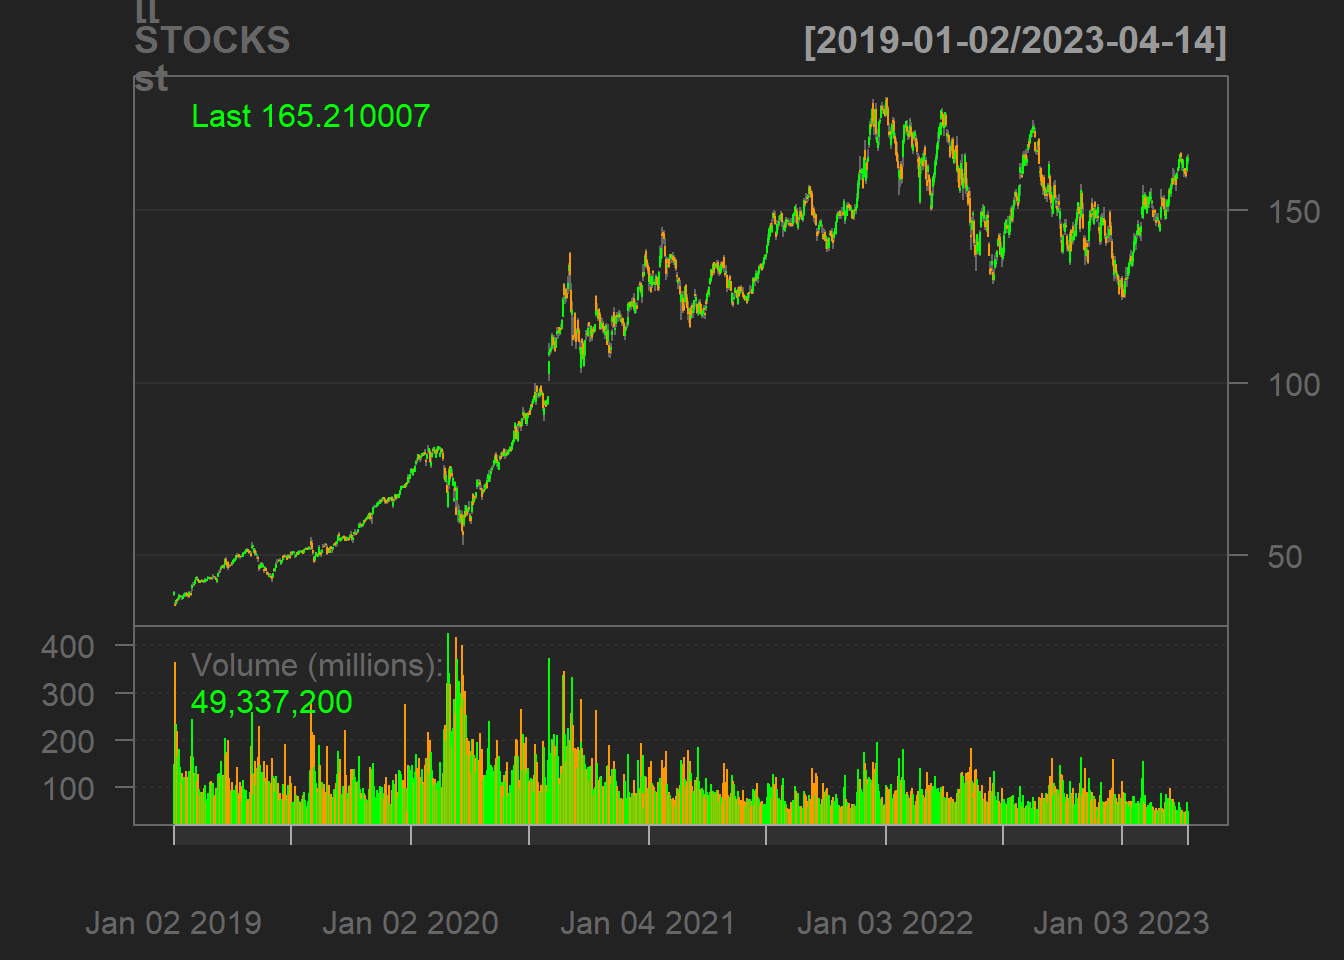
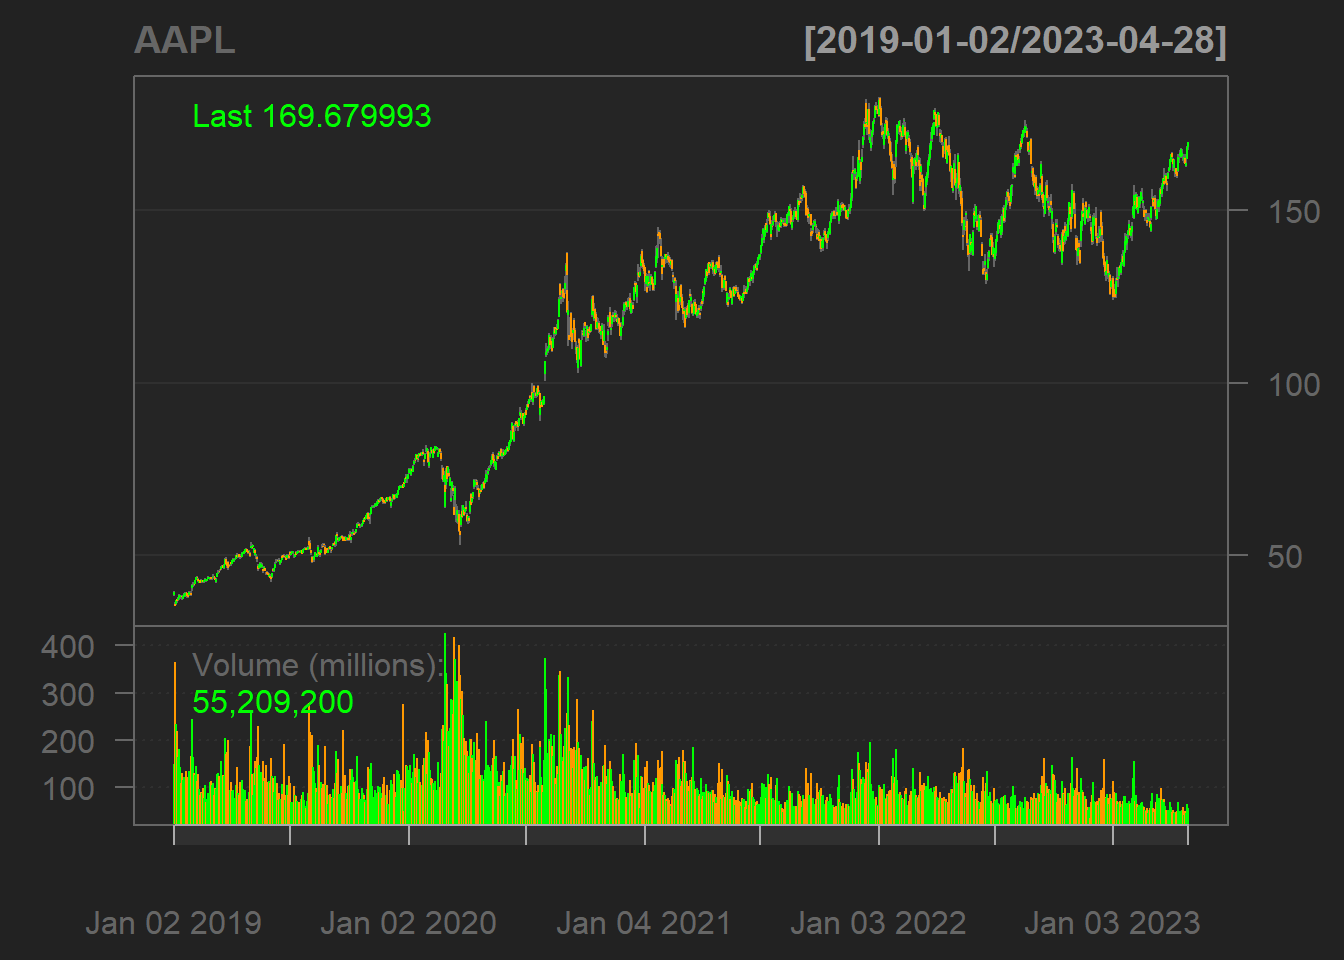
loops

diff --git a/docs/results.html b/docs/results.html
@@ -189,38 +189,30 @@ code span.wa { color: #60a0b0; font-weight: bold; font-style: italic; } /* Warni
 
 <div class="cell">
 <div class="sourceCode cell-code" id="cb1"><pre class="sourceCode r code-with-copy"><code class="sourceCode r"><span id="cb1-1"><a href="#cb1-1" aria-hidden="true" tabindex="-1"></a><span class="fu">library</span>(quantmod)</span>
-<span id="cb1-2"><a href="#cb1-2" aria-hidden="true" tabindex="-1"></a><span class="fu">load</span>(<span class="st">"./data/description.rdata"</span>)</span></code><button title="Copy to Clipboard" class="code-copy-button"><i class="bi"></i></button></pre></div>
+<span id="cb1-2"><a href="#cb1-2" aria-hidden="true" tabindex="-1"></a><span class="fu">library</span>(ggplot2)</span>
+<span id="cb1-3"><a href="#cb1-3" aria-hidden="true" tabindex="-1"></a><span class="fu">load</span>(<span class="st">"./data/description.rdata"</span>)</span></code><button title="Copy to Clipboard" class="code-copy-button"><i class="bi"></i></button></pre></div>
 </div>
 <div class="cell">
-<div class="sourceCode cell-code" id="cb2"><pre class="sourceCode r code-with-copy"><code class="sourceCode r"><span id="cb2-1"><a href="#cb2-1" aria-hidden="true" tabindex="-1"></a>AAPL <span class="ot">=</span> <span class="fu">as.data.frame</span>(AAPL)</span>
-<span id="cb2-2"><a href="#cb2-2" aria-hidden="true" tabindex="-1"></a>AAPL<span class="sc">$</span>Avg <span class="ot">=</span> (AAPL<span class="sc">$</span>AAPL.Open <span class="sc">+</span> AAPL<span class="sc">$</span>AAPL.Close)<span class="sc">/</span><span class="dv">2</span> </span>
-<span id="cb2-3"><a href="#cb2-3" aria-hidden="true" tabindex="-1"></a><span class="fu">with</span>(AAPL,(Avg[<span class="fu">length</span>(Avg)] <span class="sc">-</span> Avg[<span class="dv">1</span>])<span class="sc">*</span><span class="dv">100</span><span class="sc">/</span>Avg[<span class="dv">1</span>])</span></code><button title="Copy to Clipboard" class="code-copy-button"><i class="bi"></i></button></pre></div>
-<div class="cell-output cell-output-stdout">
-<pre><code>#&gt; [1] 321.7257</code></pre>
-</div>
-</div>
-<div class="cell">
-<div class="sourceCode cell-code" id="cb4"><pre class="sourceCode r code-with-copy"><code class="sourceCode r"><span id="cb4-1"><a href="#cb4-1" aria-hidden="true" tabindex="-1"></a>NOK <span class="ot">=</span> <span class="fu">as.data.frame</span>(NOK)</span>
-<span id="cb4-2"><a href="#cb4-2" aria-hidden="true" tabindex="-1"></a>NOK<span class="sc">$</span>Avg <span class="ot">=</span> (NOK<span class="sc">$</span>NOK.Open <span class="sc">+</span> NOK<span class="sc">$</span>NOK.Close)<span class="sc">/</span><span class="dv">2</span> </span>
-<span id="cb4-3"><a href="#cb4-3" aria-hidden="true" tabindex="-1"></a><span class="fu">with</span>(NOK,(Avg[<span class="fu">length</span>(Avg)] <span class="sc">-</span> Avg[<span class="dv">1</span>])<span class="sc">*</span><span class="dv">100</span><span class="sc">/</span>Avg[<span class="dv">1</span>])</span></code><button title="Copy to Clipboard" class="code-copy-button"><i class="bi"></i></button></pre></div>
-<div class="cell-output cell-output-stdout">
-<pre><code>#&gt; [1] -13.8986</code></pre>
-</div>
+<div class="sourceCode cell-code" id="cb2"><pre class="sourceCode r code-with-copy"><code class="sourceCode r"><span id="cb2-1"><a href="#cb2-1" aria-hidden="true" tabindex="-1"></a>PercentChange <span class="ot">&lt;-</span> <span class="fu">numeric</span>()</span>
+<span id="cb2-2"><a href="#cb2-2" aria-hidden="true" tabindex="-1"></a><span class="cf">for</span> (st <span class="cf">in</span> <span class="dv">1</span><span class="sc">:</span><span class="fu">length</span>(STOCKS)) { <span class="co"># st = 1</span></span>
+<span id="cb2-3"><a href="#cb2-3" aria-hidden="true" tabindex="-1"></a>    STOCKS[[st]]<span class="sc">$</span>Avg <span class="ot">=</span> (STOCKS[[st]][, <span class="dv">1</span>] <span class="sc">+</span> STOCKS[[st]][, <span class="dv">4</span>])<span class="sc">/</span><span class="dv">2</span></span>
+<span id="cb2-4"><a href="#cb2-4" aria-hidden="true" tabindex="-1"></a>    PercentChange[st] <span class="ot">&lt;-</span> <span class="fu">with</span>(<span class="fu">as.data.frame</span>(STOCKS[[st]]),</span>
+<span id="cb2-5"><a href="#cb2-5" aria-hidden="true" tabindex="-1"></a>                              (Avg[<span class="fu">length</span>(Avg)] <span class="sc">-</span> Avg[<span class="dv">1</span>])<span class="sc">*</span><span class="dv">100</span><span class="sc">/</span>Avg[<span class="dv">1</span>])</span>
+<span id="cb2-6"><a href="#cb2-6" aria-hidden="true" tabindex="-1"></a>}</span>
+<span id="cb2-7"><a href="#cb2-7" aria-hidden="true" tabindex="-1"></a><span class="fu">names</span>(PercentChange) <span class="ot">&lt;-</span> tickers</span></code><button title="Copy to Clipboard" class="code-copy-button"><i class="bi"></i></button></pre></div>
 </div>
 <div class="cell">
-<div class="sourceCode cell-code" id="cb6"><pre class="sourceCode r code-with-copy"><code class="sourceCode r"><span id="cb6-1"><a href="#cb6-1" aria-hidden="true" tabindex="-1"></a>IVV <span class="ot">=</span> <span class="fu">as.data.frame</span>(IVV)</span>
-<span id="cb6-2"><a href="#cb6-2" aria-hidden="true" tabindex="-1"></a>IVV<span class="sc">$</span>Avg <span class="ot">=</span> (IVV<span class="sc">$</span>IVV.Open <span class="sc">+</span> IVV<span class="sc">$</span>IVV.Close)<span class="sc">/</span><span class="dv">2</span> </span>
-<span id="cb6-3"><a href="#cb6-3" aria-hidden="true" tabindex="-1"></a><span class="fu">with</span>(IVV,(Avg[<span class="fu">length</span>(Avg)] <span class="sc">-</span> Avg[<span class="dv">1</span>])<span class="sc">*</span><span class="dv">100</span><span class="sc">/</span>Avg[<span class="dv">1</span>])</span></code><button title="Copy to Clipboard" class="code-copy-button"><i class="bi"></i></button></pre></div>
-<div class="cell-output cell-output-stdout">
-<pre><code>#&gt; [1] 66.02372</code></pre>
-</div>
-</div>
-<div class="cell">
-<div class="sourceCode cell-code" id="cb8"><pre class="sourceCode r code-with-copy"><code class="sourceCode r"><span id="cb8-1"><a href="#cb8-1" aria-hidden="true" tabindex="-1"></a>BRKA <span class="ot">=</span> <span class="fu">as.data.frame</span>(<span class="st">`</span><span class="at">BRK-A</span><span class="st">`</span>)</span>
-<span id="cb8-2"><a href="#cb8-2" aria-hidden="true" tabindex="-1"></a>BRKA<span class="sc">$</span>Avg <span class="ot">=</span> (BRKA<span class="sc">$</span><span class="st">`</span><span class="at">BRK-A.Open</span><span class="st">`</span> <span class="sc">+</span> BRKA<span class="sc">$</span><span class="st">`</span><span class="at">BRK-A.Close</span><span class="st">`</span>)<span class="sc">/</span><span class="dv">2</span> </span>
-<span id="cb8-3"><a href="#cb8-3" aria-hidden="true" tabindex="-1"></a><span class="fu">with</span>(BRKA,(Avg[<span class="fu">length</span>(Avg)] <span class="sc">-</span> Avg[<span class="dv">1</span>])<span class="sc">*</span><span class="dv">100</span><span class="sc">/</span>Avg[<span class="dv">1</span>])</span></code><button title="Copy to Clipboard" class="code-copy-button"><i class="bi"></i></button></pre></div>
-<div class="cell-output cell-output-stdout">
-<pre><code>#&gt; [1] 63.33777</code></pre>
+<div class="sourceCode cell-code" id="cb3"><pre class="sourceCode r code-with-copy"><code class="sourceCode r"><span id="cb3-1"><a href="#cb3-1" aria-hidden="true" tabindex="-1"></a><span class="co"># barplot(PercentChange, las = 1)</span></span>
+<span id="cb3-2"><a href="#cb3-2" aria-hidden="true" tabindex="-1"></a><span class="fu">ggplot</span>(<span class="fu">data.frame</span>(PercentChange), <span class="fu">aes</span>(<span class="at">x =</span> tickers, <span class="at">y =</span> PercentChange)) <span class="sc">+</span> </span>
+<span id="cb3-3"><a href="#cb3-3" aria-hidden="true" tabindex="-1"></a>    <span class="fu">geom_bar</span>(<span class="at">stat =</span> <span class="st">"identity"</span>) <span class="sc">+</span> </span>
+<span id="cb3-4"><a href="#cb3-4" aria-hidden="true" tabindex="-1"></a>    <span class="fu">xlab</span>(<span class="st">""</span>) <span class="sc">+</span></span>
+<span id="cb3-5"><a href="#cb3-5" aria-hidden="true" tabindex="-1"></a>    <span class="fu">geom_text</span>(<span class="fu">aes</span>(<span class="at">label =</span> <span class="fu">round</span>(PercentChange, <span class="dv">1</span>)), </span>
+<span id="cb3-6"><a href="#cb3-6" aria-hidden="true" tabindex="-1"></a>              <span class="at">color =</span> <span class="st">"white"</span>, </span>
+<span id="cb3-7"><a href="#cb3-7" aria-hidden="true" tabindex="-1"></a>              <span class="at">size =</span> <span class="dv">5</span>,</span>
+<span id="cb3-8"><a href="#cb3-8" aria-hidden="true" tabindex="-1"></a>              <span class="at">position =</span> <span class="fu">position_stack</span>(<span class="at">vjust =</span> <span class="fl">0.5</span>)) <span class="sc">+</span> </span>
+<span id="cb3-9"><a href="#cb3-9" aria-hidden="true" tabindex="-1"></a>    <span class="fu">theme_light</span>()</span></code><button title="Copy to Clipboard" class="code-copy-button"><i class="bi"></i></button></pre></div>
+<div class="cell-output-display">
+<p><img src="results_files/figure-html/unnamed-chunk-3-1.png" class="img-fluid" width="672"></p>
 </div>
 </div>
 

diff --git a/docs/description.html b/docs/description.html
@@ -194,29 +194,28 @@ code span.wa { color: #60a0b0; font-weight: bold; font-style: italic; } /* Warni
 </div>
 <div class="cell">
 <div class="sourceCode cell-code" id="cb2"><pre class="sourceCode r code-with-copy"><code class="sourceCode r"><span id="cb2-1"><a href="#cb2-1" aria-hidden="true" tabindex="-1"></a>tickers <span class="ot">=</span> <span class="fu">c</span>(<span class="st">"AAPL"</span>, <span class="st">"IVV"</span>, <span class="st">"NOK"</span>, <span class="st">"BRK-A"</span>)</span>
-<span id="cb2-2"><a href="#cb2-2" aria-hidden="true" tabindex="-1"></a><span class="fu">getSymbols</span>(tickers, <span class="at">src =</span> <span class="st">'yahoo'</span>, <span class="at">from =</span> <span class="st">'2019-01-01'</span>)</span></code><button title="Copy to Clipboard" class="code-copy-button"><i class="bi"></i></button></pre></div>
-<div class="cell-output cell-output-stdout">
-<pre><code>#&gt; [1] "AAPL"  "IVV"   "NOK"   "BRK-A"</code></pre>
-</div>
-<div class="sourceCode cell-code" id="cb4"><pre class="sourceCode r code-with-copy"><code class="sourceCode r"><span id="cb4-1"><a href="#cb4-1" aria-hidden="true" tabindex="-1"></a>STOCKS <span class="ot">=</span> <span class="fu">lapply</span>(tickers, <span class="cf">function</span>(x)</span>
-<span id="cb4-2"><a href="#cb4-2" aria-hidden="true" tabindex="-1"></a>    <span class="fu">getSymbols</span>(x, </span>
-<span id="cb4-3"><a href="#cb4-3" aria-hidden="true" tabindex="-1"></a>               <span class="at">src =</span> <span class="st">'yahoo'</span>, </span>
-<span id="cb4-4"><a href="#cb4-4" aria-hidden="true" tabindex="-1"></a>               <span class="at">from =</span> <span class="st">'2019-01-01'</span>, </span>
-<span id="cb4-5"><a href="#cb4-5" aria-hidden="true" tabindex="-1"></a>               <span class="at">auto.assign =</span> <span class="cn">FALSE</span>)</span>
-<span id="cb4-6"><a href="#cb4-6" aria-hidden="true" tabindex="-1"></a>)</span>
-<span id="cb4-7"><a href="#cb4-7" aria-hidden="true" tabindex="-1"></a><span class="fu">names</span>(STOCKS) <span class="ot">&lt;-</span> <span class="fu">gsub</span>(<span class="st">"-"</span>, <span class="st">""</span>, tickers)</span>
-<span id="cb4-8"><a href="#cb4-8" aria-hidden="true" tabindex="-1"></a><span class="cf">for</span> (st <span class="cf">in</span> <span class="dv">1</span><span class="sc">:</span><span class="fu">length</span>(STOCKS)) {</span>
-<span id="cb4-9"><a href="#cb4-9" aria-hidden="true" tabindex="-1"></a>    <span class="fu">names</span>(STOCKS[[st]]) <span class="ot">=</span> <span class="fu">gsub</span>(<span class="st">"-"</span>, <span class="st">""</span>, <span class="fu">names</span>(STOCKS[[st]]))</span>
-<span id="cb4-10"><a href="#cb4-10" aria-hidden="true" tabindex="-1"></a>}</span></code><button title="Copy to Clipboard" class="code-copy-button"><i class="bi"></i></button></pre></div>
+<span id="cb2-2"><a href="#cb2-2" aria-hidden="true" tabindex="-1"></a><span class="co"># getSymbols(tickers, src = 'yahoo', from = '2019-01-01')</span></span>
+<span id="cb2-3"><a href="#cb2-3" aria-hidden="true" tabindex="-1"></a>STOCKS <span class="ot">=</span> <span class="fu">lapply</span>(tickers, <span class="cf">function</span>(x)</span>
+<span id="cb2-4"><a href="#cb2-4" aria-hidden="true" tabindex="-1"></a>    <span class="fu">getSymbols</span>(x, </span>
+<span id="cb2-5"><a href="#cb2-5" aria-hidden="true" tabindex="-1"></a>               <span class="at">src =</span> <span class="st">'yahoo'</span>, </span>
+<span id="cb2-6"><a href="#cb2-6" aria-hidden="true" tabindex="-1"></a>               <span class="at">from =</span> <span class="st">'2019-01-01'</span>, </span>
+<span id="cb2-7"><a href="#cb2-7" aria-hidden="true" tabindex="-1"></a>               <span class="at">auto.assign =</span> <span class="cn">FALSE</span>)</span>
+<span id="cb2-8"><a href="#cb2-8" aria-hidden="true" tabindex="-1"></a>)</span>
+<span id="cb2-9"><a href="#cb2-9" aria-hidden="true" tabindex="-1"></a><span class="fu">names</span>(STOCKS) <span class="ot">&lt;-</span> <span class="fu">gsub</span>(<span class="st">"-"</span>, <span class="st">""</span>, tickers)</span>
+<span id="cb2-10"><a href="#cb2-10" aria-hidden="true" tabindex="-1"></a><span class="cf">for</span> (st <span class="cf">in</span> <span class="dv">1</span><span class="sc">:</span><span class="fu">length</span>(STOCKS)) {</span>
+<span id="cb2-11"><a href="#cb2-11" aria-hidden="true" tabindex="-1"></a>    <span class="fu">names</span>(STOCKS[[st]]) <span class="ot">=</span> <span class="fu">gsub</span>(<span class="st">"-"</span>, <span class="st">""</span>, <span class="fu">names</span>(STOCKS[[st]]))</span>
+<span id="cb2-12"><a href="#cb2-12" aria-hidden="true" tabindex="-1"></a>}</span></code><button title="Copy to Clipboard" class="code-copy-button"><i class="bi"></i></button></pre></div>
 </div>
 <div class="cell">
-<div class="sourceCode cell-code" id="cb5"><pre class="sourceCode r code-with-copy"><code class="sourceCode r"><span id="cb5-1"><a href="#cb5-1" aria-hidden="true" tabindex="-1"></a><span class="co"># chartSeries(AAPL, theme = chartTheme('black'))</span></span>
-<span id="cb5-2"><a href="#cb5-2" aria-hidden="true" tabindex="-1"></a><span class="co"># chartSeries(IVV, theme = chartTheme('black'))</span></span>
-<span id="cb5-3"><a href="#cb5-3" aria-hidden="true" tabindex="-1"></a><span class="co"># chartSeries(NOK, theme = chartTheme('black'))</span></span>
-<span id="cb5-4"><a href="#cb5-4" aria-hidden="true" tabindex="-1"></a><span class="co"># chartSeries(`BRK-A`, theme = chartTheme('black'))</span></span>
-<span id="cb5-5"><a href="#cb5-5" aria-hidden="true" tabindex="-1"></a><span class="cf">for</span> (st <span class="cf">in</span> <span class="dv">1</span><span class="sc">:</span><span class="fu">length</span>(STOCKS)) {</span>
-<span id="cb5-6"><a href="#cb5-6" aria-hidden="true" tabindex="-1"></a>    <span class="fu">chartSeries</span>(STOCKS[[st]], <span class="at">theme =</span> <span class="fu">chartTheme</span>(<span class="st">'black'</span>))</span>
-<span id="cb5-7"><a href="#cb5-7" aria-hidden="true" tabindex="-1"></a>}</span></code><button title="Copy to Clipboard" class="code-copy-button"><i class="bi"></i></button></pre></div>
+<div class="sourceCode cell-code" id="cb3"><pre class="sourceCode r code-with-copy"><code class="sourceCode r"><span id="cb3-1"><a href="#cb3-1" aria-hidden="true" tabindex="-1"></a><span class="co"># chartSeries(AAPL, theme = chartTheme('black'))</span></span>
+<span id="cb3-2"><a href="#cb3-2" aria-hidden="true" tabindex="-1"></a><span class="co"># chartSeries(IVV, theme = chartTheme('black'))</span></span>
+<span id="cb3-3"><a href="#cb3-3" aria-hidden="true" tabindex="-1"></a><span class="co"># chartSeries(NOK, theme = chartTheme('black'))</span></span>
+<span id="cb3-4"><a href="#cb3-4" aria-hidden="true" tabindex="-1"></a><span class="co"># chartSeries(`BRK-A`, theme = chartTheme('black'))</span></span>
+<span id="cb3-5"><a href="#cb3-5" aria-hidden="true" tabindex="-1"></a><span class="cf">for</span> (st <span class="cf">in</span> <span class="dv">1</span><span class="sc">:</span><span class="fu">length</span>(STOCKS)) {</span>
+<span id="cb3-6"><a href="#cb3-6" aria-hidden="true" tabindex="-1"></a>    <span class="fu">chartSeries</span>(STOCKS[[st]], </span>
+<span id="cb3-7"><a href="#cb3-7" aria-hidden="true" tabindex="-1"></a>                <span class="at">name =</span> tickers[st],</span>
+<span id="cb3-8"><a href="#cb3-8" aria-hidden="true" tabindex="-1"></a>                <span class="at">theme =</span> <span class="fu">chartTheme</span>(<span class="st">'black'</span>))</span>
+<span id="cb3-9"><a href="#cb3-9" aria-hidden="true" tabindex="-1"></a>}</span></code><button title="Copy to Clipboard" class="code-copy-button"><i class="bi"></i></button></pre></div>
 <div class="cell-output-display">
 <p><img src="description_files/figure-html/unnamed-chunk-3-1.png" class="img-fluid" width="672"></p>
 </div>
@@ -231,7 +230,7 @@ code span.wa { color: #60a0b0; font-weight: bold; font-style: italic; } /* Warni
 </div>
 </div>
 <div class="cell">
-<div class="sourceCode cell-code" id="cb6"><pre class="sourceCode r code-with-copy"><code class="sourceCode r"><span id="cb6-1"><a href="#cb6-1" aria-hidden="true" tabindex="-1"></a><span class="fu">save.image</span>(<span class="st">"./data/description.rdata"</span>)</span></code><button title="Copy to Clipboard" class="code-copy-button"><i class="bi"></i></button></pre></div>
+<div class="sourceCode cell-code" id="cb4"><pre class="sourceCode r code-with-copy"><code class="sourceCode r"><span id="cb4-1"><a href="#cb4-1" aria-hidden="true" tabindex="-1"></a><span class="fu">save.image</span>(<span class="st">"./data/description.rdata"</span>)</span></code><button title="Copy to Clipboard" class="code-copy-button"><i class="bi"></i></button></pre></div>
 </div>
 
 
